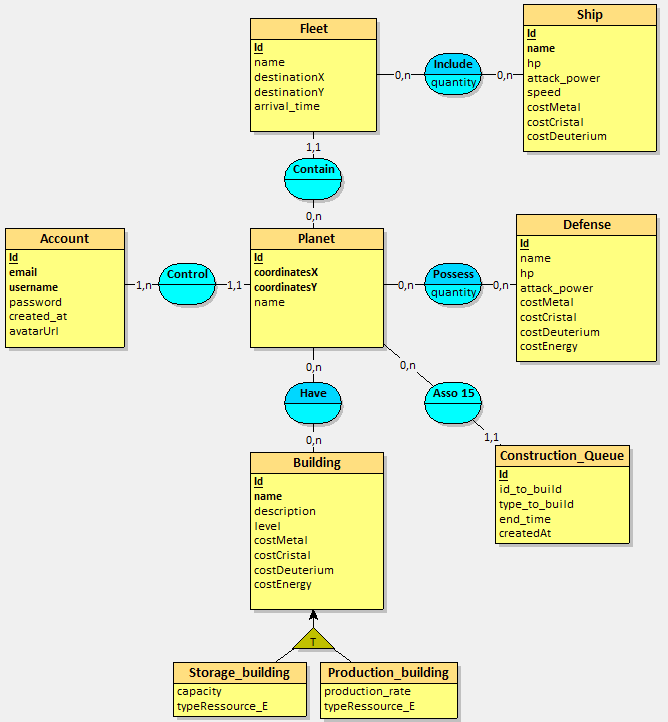
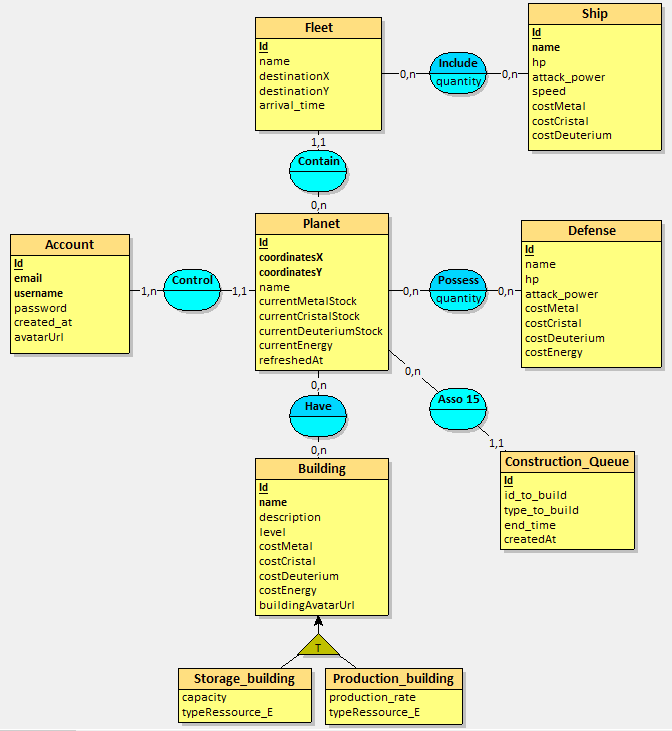
Merge Fix/0056 - add createdAt to ConstructionQueue + update MCD/MLD (#63)

Changed region(s): [[0.0, 0.0, 1.0, 1.0], [0.6287, 0.518, 0.9581, 0.7618]]

diff --git a/SpaceBack/src/main/java/com/example/SpaceBack/model/ConstructionQueue.java b/SpaceBack/src/main/java/com/example/SpaceBack/model/ConstructionQueue.java
@@ -24,6 +24,8 @@ public class ConstructionQueue {
     private ConstructionType constructionType;
     @DateTimeFormat
     private LocalDateTime constructionEndTime;
+    @DateTimeFormat
+    private LocalDateTime createdAt;
 
     @ManyToOne
     private Planet planet;
